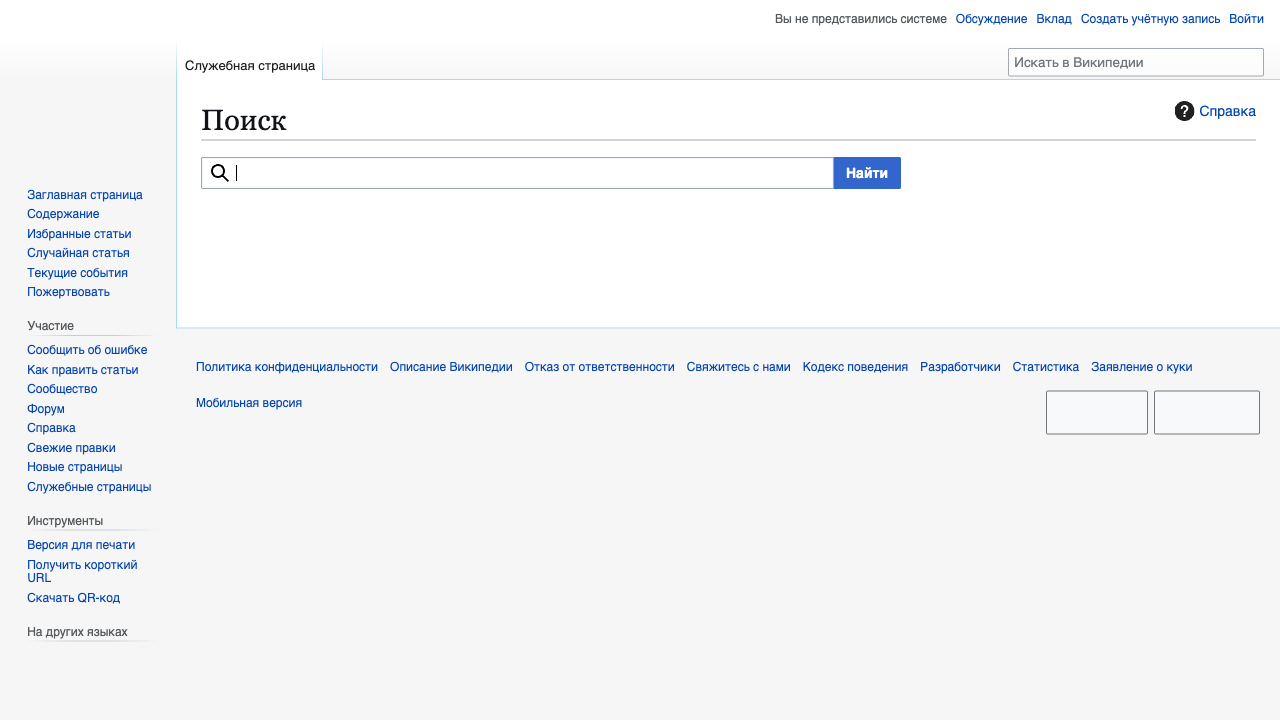
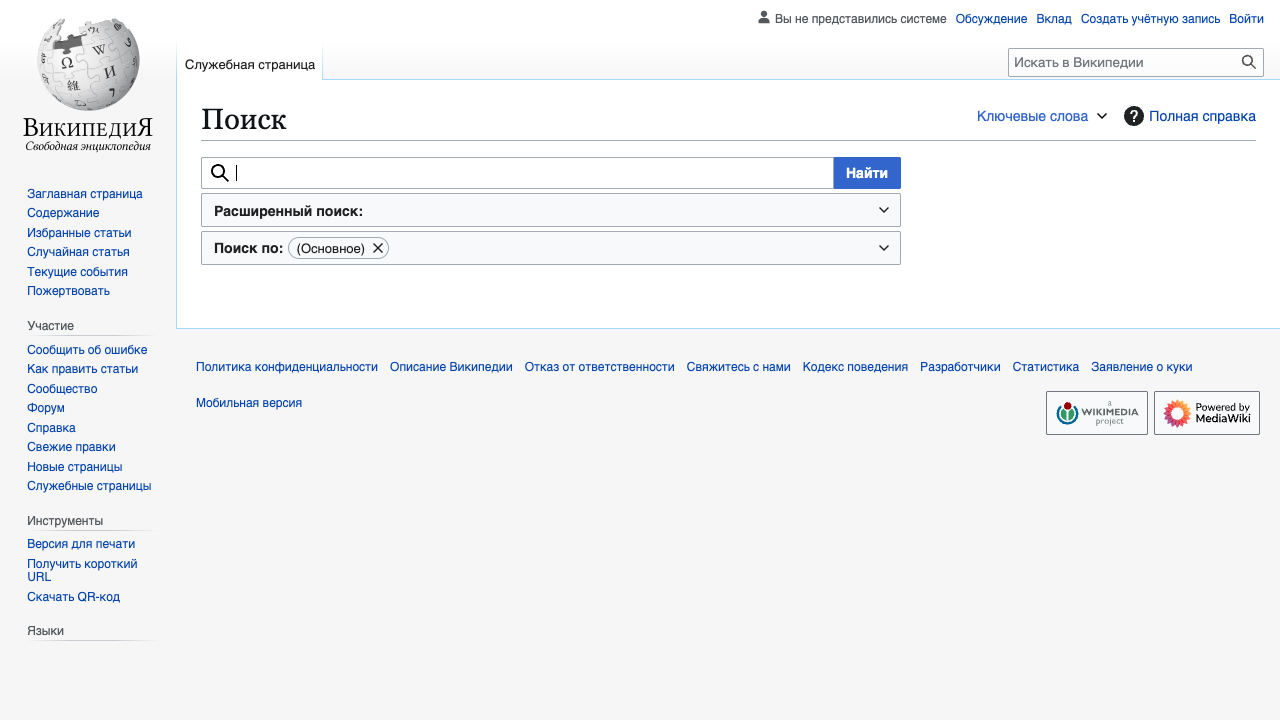
add new rest test

diff --git a/src/test/java/ru/java/mifi/demo/CheckRestTest.java b/src/test/java/ru/java/mifi/demo/CheckRestTest.java
@@ -1,12 +1,67 @@
 package ru.java.mifi.demo;
 
+import io.restassured.http.ContentType;
 import io.restassured.response.Response;
 import org.junit.jupiter.api.Test;
 
 import static io.restassured.RestAssured.given;
+import static org.hamcrest.Matchers.equalTo;
+import static org.hamcrest.Matchers.hasSize;
 import static org.junit.jupiter.api.Assertions.assertEquals;
 
 public class CheckRestTest {
+
+    @Test
+    void testHealthCheck() {
+        // Given — When — Then
+        // Предусловия
+        given()
+                .baseUri("https://restful-booker.herokuapp.com")
+        // Выполняемые действия
+                .when()
+                .get("/ping")
+        // Проверки
+                .then()
+                .statusCode(201)
+        ;
+    }
+
+    @Test
+    void testGetBooking() {
+        // Given — When — Then
+        // Предусловия
+        given()
+                .baseUri("https://restful-booker.herokuapp.com")
+                // Выполняемые действия
+                .when()
+                    .get("/booking/1")
+                // Проверки
+                .then()
+                    .statusCode(200)
+                    .body("firstname", equalTo("Mary"))
+                    .body("lastname", equalTo("Smith"))
+                    .body("totalprice", equalTo(657))
+                    .body("depositpaid", equalTo(false))
+                    .body("bookingdates.checkin", equalTo("2020-12-12"))
+                    .body("bookingdates.checkout", equalTo("2024-01-06"));
+    }
+
+    @Test
+    void testGetBookingAll() {
+        // Given — When — Then
+        // Предусловия
+        given()
+                .baseUri("https://restful-booker.herokuapp.com")
+                // Выполняемые действия
+                .when()
+                    .get("/booking")
+                // Проверки
+                .then()
+                    .statusCode(200)
+                    .body("[0].bookingid", equalTo(1755));
+        ;
+    }
+
     @Test
     public void testLogin() {
         // Запрос на login API
@@ -19,9 +74,9 @@ public class CheckRestTest {
                 .body("{\"username\":\"test\",\"password\":\"dGVzdA==\"}")
                 .when()
                 .post("/login")
-                        .then()
-                                .statusCode(200)
-                                        .extract().response();
+                .then()
+                .statusCode(200)
+                .extract().response();
         assertEquals(200, response.statusCode());
     }
 

diff --git a/src/main/java/ru/java/mifi/demo/Main.java b/src/main/java/ru/java/mifi/demo/Main.java
@@ -1,8 +1,8 @@
 package ru.java.mifi.demo;
 
-import static ru.java.mifi.demo.Calculator.add;
-
 public class Main {
     public static void main(String[] args) {
+        int result = Calculator.add(2, 2);
+        System.out.println(result);
     }
 }
